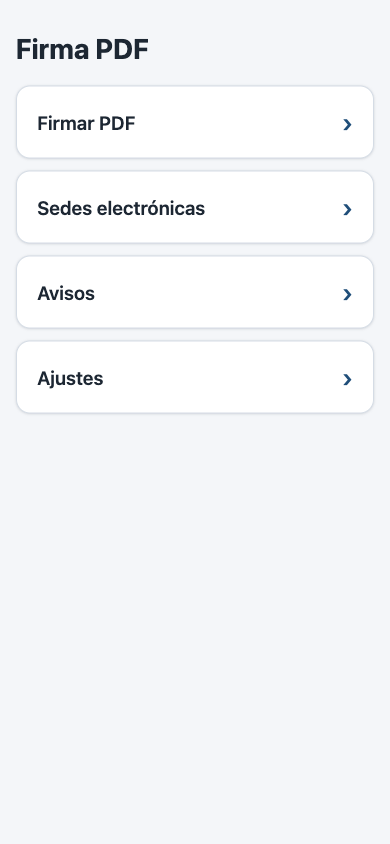
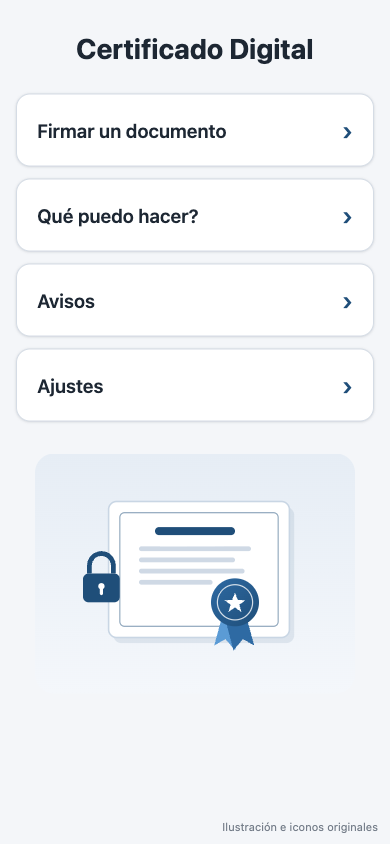
feat: botón Salir en cada pantalla y Salir en el inicio
- Salir sustituye a Volver y lleva al inicio (también en Importar).
- Salir en el inicio intenta cerrar la app; si el navegador no puede,
  avisa de que se cierre desde el gestor de apps del móvil.
- Pruebas E2E de ambos comportamientos.

diff --git a/src/App.tsx b/src/App.tsx
@@ -10,6 +10,14 @@ type View = 'home' | 'import' | 'sign' | 'sedes' | 'avisos' | 'ajustes'
 
 export default function App() {
   const [view, setView] = useState<View>('home')
+  const [aviso, setAviso] = useState('')
+
+  // Un navegador solo deja cerrar las ventanas que él mismo abrió; si no lo consigue, se avisa.
+  function cerrarApp() {
+    setAviso('')
+    window.close()
+    setTimeout(() => setAviso('Para cerrar la app, ciérrala desde el gestor de apps de tu móvil.'), 300)
+  }
 
   async function startSigning() {
     let hasVault = false
@@ -21,7 +29,7 @@ export default function App() {
     setView(hasVault ? 'sign' : 'import')
   }
 
-  if (view === 'import') return <main><ImportCertificate onDone={() => setView('sign')} /></main>
+  if (view === 'import') return <main><ImportCertificate onDone={() => setView('sign')} onBack={() => setView('home')} /></main>
   if (view === 'sign') {
     return <main><SignPdf onBack={() => setView('home')} onImport={() => setView('import')} /></main>
   }
@@ -37,11 +45,13 @@ export default function App() {
   return (
     <main>
       <h1 className="titulo-inicio">Certificado Digital</h1>
+      {aviso && <p role="status">{aviso}</p>}
       <nav className="menu-principal">
         <button type="button" className="menu-boton" onClick={startSigning}>Firmar un documento</button>
         <button type="button" className="menu-boton" onClick={() => setView('sedes')}>Qué puedo hacer?</button>
         <button type="button" className="menu-boton" onClick={() => setView('avisos')}>Avisos</button>
         <button type="button" className="menu-boton" onClick={() => setView('ajustes')}>Ajustes</button>
+        <button type="button" className="menu-boton" onClick={cerrarApp}>Salir</button>
       </nav>
       <img className="ilustracion-inicio" src="/ilustracion-certificado.svg" alt="" />
       <p className="creditos-pie">Ilustración e iconos originales</p>

diff --git a/e2e/settings.spec.ts b/e2e/settings.spec.ts
@@ -18,17 +18,17 @@ async function importCert(page: Page) {
 
 test('Ajustes borra el certificado tras confirmar y firmar vuelve a pedir importarlo', async ({ page }) => {
   await importCert(page)
-  await page.getByRole('button', { name: 'Volver' }).click()
+  await page.getByRole('button', { name: 'Salir' }).click()
 
   // Cancelar no borra nada.
   await page.getByRole('button', { name: 'Ajustes' }).click()
   await expect(page.getByRole('heading', { name: 'Ajustes' })).toBeVisible()
   await page.getByRole('button', { name: 'Borrar certificado / importar otro' }).click()
   await page.getByRole('button', { name: 'Cancelar' }).click()
-  await page.getByRole('button', { name: 'Volver' }).click()
+  await page.getByRole('button', { name: 'Salir' }).click()
   await page.getByRole('button', { name: 'Firmar un documento' }).click()
   await expect(page.getByRole('heading', { name: 'Firmar un documento' })).toBeVisible()
-  await page.getByRole('button', { name: 'Volver' }).click()
+  await page.getByRole('button', { name: 'Salir' }).click()
 
   // Confirmar borra y lleva a importar.
   await page.getByRole('button', { name: 'Ajustes' }).click()

diff --git a/src/ui/ImportCertificate.tsx b/src/ui/ImportCertificate.tsx
@@ -4,9 +4,9 @@ import { loadSigner } from '../crypto/pkcs12'
 import { saveVault } from '../storage/certStore'
 import { encodeBundle } from './bundle'
 
-type Props = { onDone: () => void }
+type Props = { onDone: () => void; onBack?: () => void }
 
-export default function ImportCertificate({ onDone }: Props) {
+export default function ImportCertificate({ onDone, onBack }: Props) {
   const [file, setFile] = useState<File | null>(null)
   const [password, setPassword] = useState('')
   const [pin, setPin] = useState('')
@@ -82,6 +82,7 @@ export default function ImportCertificate({ onDone }: Props) {
         {error && <p role="alert">{error}</p>}
         <button type="submit" disabled={busy}>Guardar certificado</button>
       </form>
+      {onBack && <button type="button" className="boton-secundario" onClick={onBack}>Salir</button>}
     </section>
   )
 }

diff --git a/e2e/navegacion.spec.ts b/e2e/navegacion.spec.ts
@@ -1,0 +1,15 @@
+import { test, expect } from '@playwright/test'
+
+test('Salir en el inicio avisa si el navegador no puede cerrar la app', async ({ page }) => {
+  await page.goto('/')
+  await page.getByRole('button', { name: 'Salir' }).click()
+  await expect(page.getByRole('status')).toContainText('gestor de apps')
+})
+
+test('Salir en la pantalla de importar vuelve al inicio', async ({ page }) => {
+  await page.goto('/')
+  await page.getByRole('button', { name: 'Firmar un documento' }).click()
+  await expect(page.getByRole('heading', { name: 'Importar certificado' })).toBeVisible()
+  await page.getByRole('button', { name: 'Salir' }).click()
+  await expect(page.getByRole('button', { name: 'Firmar un documento' })).toBeVisible()
+})

diff --git a/src/ui/SignPdf.tsx b/src/ui/SignPdf.tsx
@@ -132,7 +132,7 @@ export default function SignPdf({ onBack, onImport }: Props) {
       >
         Firmar
       </button>
-      <button type="button" className="boton-secundario" onClick={onBack}>Volver</button>
+      <button type="button" className="boton-secundario" onClick={onBack}>Salir</button>
       {message && <p role="status">{message}</p>}
       {noCert && <button type="button" onClick={onImport}>Importar certificado</button>}
       {toShare && <button type="button" onClick={shareSigned}>Guardar o compartir</button>}

diff --git a/src/ui/Sedes.tsx b/src/ui/Sedes.tsx
@@ -66,7 +66,7 @@ export default function Sedes({ onBack }: { onBack?: () => void }) {
   return (
     <section>
       <h1>Sedes electrónicas</h1>
-      {onBack && <button type="button" className="boton-secundario" onClick={onBack}>Volver</button>}
+      {onBack && <button type="button" className="boton-secundario" onClick={onBack}>Salir</button>}
       <label>
         Buscar sede
         <input type="search" value={query} onChange={(e) => setQuery(e.target.value)} />

diff --git a/src/ui/Avisos.tsx b/src/ui/Avisos.tsx
@@ -44,7 +44,7 @@ export default function Avisos({ onBack }: { onBack?: () => void }) {
         <button type="button" onClick={activar} disabled={busy}>Activar avisos</button>
       )}
       {error && <p role="alert">{error}</p>}
-      {onBack && <button type="button" className="boton-secundario" onClick={onBack}>Volver</button>}
+      {onBack && <button type="button" className="boton-secundario" onClick={onBack}>Salir</button>}
     </section>
   )
 }

diff --git a/src/ui/Ajustes.tsx b/src/ui/Ajustes.tsx
@@ -35,7 +35,7 @@ export default function Ajustes({ onBack, onDeleted }: Props) {
         </div>
       )}
       {error && <p role="alert">{error}</p>}
-      <button type="button" className="boton-secundario" onClick={onBack}>Volver</button>
+      <button type="button" className="boton-secundario" onClick={onBack}>Salir</button>
     </section>
   )
 }
